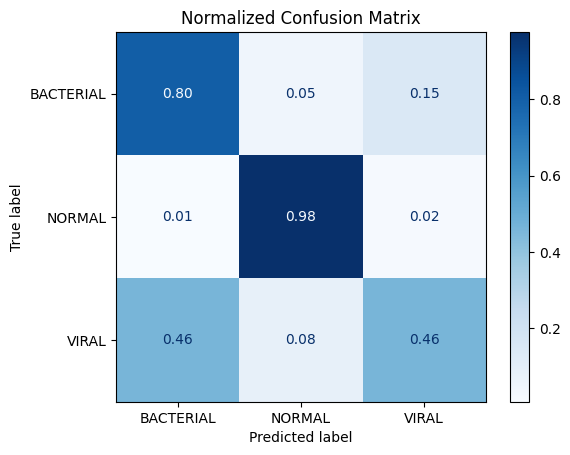
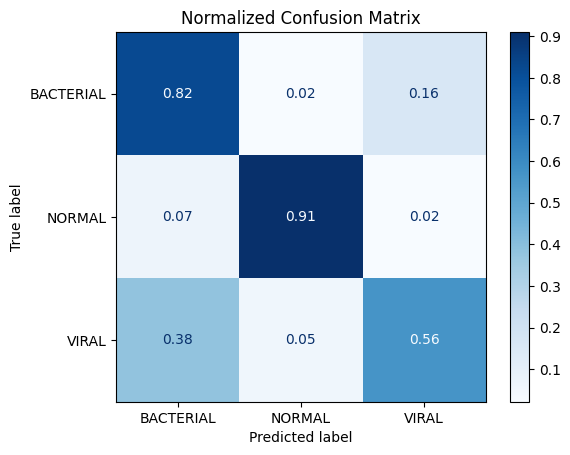
Augmentation

diff --git a/pneumonia_classification.py b/pneumonia_classification.py
@@ -7,7 +7,7 @@ import keras
 import tensorflow as tf
 from keras.datasets import mnist
 from keras.models import Sequential
-from keras.layers import Dense, Dropout, Flatten, Conv2D, MaxPooling2D, Rescaling, BatchNormalization
+from keras.layers import Dense, Dropout, Flatten, Conv2D, MaxPooling2D, Rescaling, BatchNormalization, RandomFlip, RandomRotation, RandomZoom
 from keras.optimizers import RMSprop,Adam
 import matplotlib.pyplot as plt
 import numpy as np
@@ -29,14 +29,25 @@ AUTOTUNE = tf.data.AUTOTUNE
 
 batch_size = 16
 num_classes = 3
-epochs = 8
+epochs = 30
 img_width = 128
 img_height = 128
-img_channels = 3
+img_channels = 1
 fit = True #make fit false if you do not want to train the network again
+stage = 'Imbalance/'
+os.makedirs(stage, exist_ok=True)
+os.makedirs(stage + 'plot', exist_ok=True)
+os.makedirs(stage + 'reports', exist_ok=True)
+
 
 train_dir = 'chest_xray/chest_xray/train/'
 test_dir = 'chest_xray/chest_xray/test/'
+
+data_augmentation = tf.keras.Sequential([
+    RandomFlip('horizontal'),
+    RandomRotation(0.01),
+    RandomZoom(height_factor=(-0.05, 0.05), width_factor=(-0.05, 0.05))
+])
     
 #create training,validation and test datatsets 
 train_ds,val_ds = tf.keras.preprocessing.image_dataset_from_directory(
@@ -48,7 +59,8 @@ train_ds,val_ds = tf.keras.preprocessing.image_dataset_from_directory(
     batch_size=batch_size,
     labels='inferred',
     shuffle=True,
-    verbose=False)
+    verbose=False,
+    color_mode='grayscale')
 
 test_ds = tf.keras.preprocessing.image_dataset_from_directory(
     test_dir,
@@ -57,7 +69,8 @@ test_ds = tf.keras.preprocessing.image_dataset_from_directory(
     batch_size=batch_size,
     labels='inferred',
     shuffle=False,
-    verbose=False)
+    verbose=False,
+    color_mode='grayscale')
 
 class_names = train_ds.class_names
 print('Class Names: ',class_names)
@@ -70,6 +83,7 @@ test_ds = test_ds.prefetch(AUTOTUNE)
 #create model
 model = tf.keras.models.Sequential([
     Rescaling(1.0/255),
+    data_augmentation,
     Conv2D(16, (3,3), activation = 'relu', input_shape = (img_height,img_width, img_channels)),
     MaxPooling2D(2,2),
     Conv2D(32, (3,3), activation = 'relu'),
@@ -86,18 +100,18 @@ model.compile(loss='sparse_categorical_crossentropy',
                 optimizer=Adam(),
                 metrics=['accuracy'])
 
-#earlystop_callback = tf.keras.callbacks.EarlyStopping(monitor='val_loss',patience=5)
-save_callback = tf.keras.callbacks.ModelCheckpoint("pneumonia.keras",save_freq='epoch',save_best_only=True)
+earlystop_callback = tf.keras.callbacks.EarlyStopping(monitor='val_loss',patience=5)
+save_callback = tf.keras.callbacks.ModelCheckpoint(stage + "pneumonia.keras",save_freq='epoch',save_best_only=True)
 
 if fit:
     history = model.fit(
         train_ds,
         batch_size=batch_size,
         validation_data=val_ds,
-        callbacks=[save_callback],
+        callbacks=[save_callback, earlystop_callback],
         epochs=epochs)
 else:
-    model = tf.keras.models.load_model("pneumonia.keras")
+    model = tf.keras.models.load_model(stage + "pneumonia.keras")
 
 #if shuffle=True when creating the dataset, samples will be chosen randomly   
 score = model.evaluate(test_ds, batch_size=batch_size)
@@ -116,13 +130,13 @@ report = classification_report(
 
 print(report)
 
-with open("reports/classification_report.txt", "w") as f:
+with open(stage + "reports/classification_report.txt", "w") as f:
     f.write(report)
 
 cm = confusion_matrix(y_true, y_pred)
 per_class_accuracy = cm.diagonal() / cm.sum(axis=1)
 
-with open("reports/per_class_accuracy.txt", "w") as f:
+with open(stage + "reports/per_class_accuracy.txt", "w") as f:
     for i, class_name in enumerate(class_names):
         f.write(f"{class_name}: {per_class_accuracy[i]:.4f}\n")
 
@@ -131,13 +145,13 @@ cm_norm = confusion_matrix(y_true, y_pred, normalize="true")
 disp = ConfusionMatrixDisplay(confusion_matrix=cm, display_labels=class_names)
 disp.plot(cmap="Blues", values_format="d")
 plt.title("Confusion Matrix")
-plt.savefig("plots/confusion_matrix.png", bbox_inches="tight")
+plt.savefig(stage + "plots/confusion_matrix.png", bbox_inches="tight")
 plt.close()
 
 disp = ConfusionMatrixDisplay(confusion_matrix=cm_norm, display_labels=class_names)
 disp.plot(cmap="Blues", values_format=".2f")
 plt.title("Normalized Confusion Matrix")
-plt.savefig("plots/confusion_matrix_normalized.png", bbox_inches="tight")
+plt.savefig(stage + "plots/confusion_matrix_normalized.png", bbox_inches="tight")
 plt.close()
 
 if fit:
@@ -148,5 +162,5 @@ if fit:
     plt.ylabel('accuracy')
     plt.xlabel('epoch')
     plt.legend(['train', 'val'], loc='upper left')
-    plt.savefig('plots/training_accuracy.png')
+    plt.savefig(stage + 'plots/training_accuracy.png')
     plt.close()